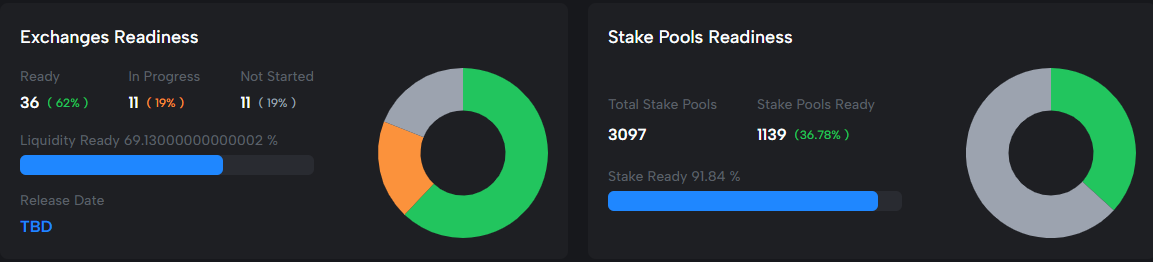
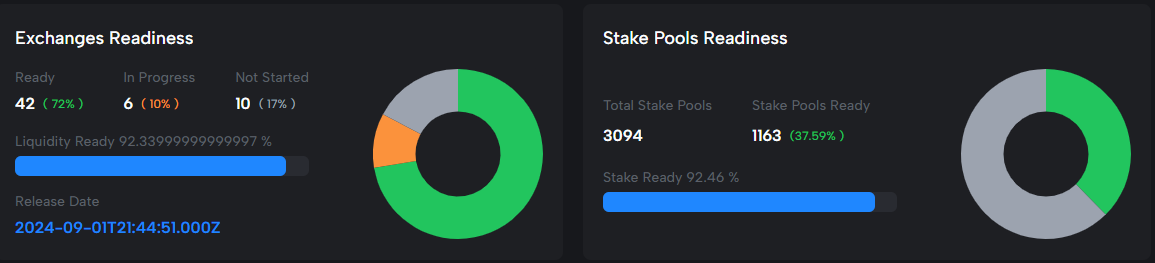
GITBOOK-557: Updated exchange readiness

diff --git a/cardano/cardano-hardforks-and-upgrades/chang-upgrade/chang-upgrade-1-readiness.md b/cardano/cardano-hardforks-and-upgrades/chang-upgrade/chang-upgrade-1-readiness.md
@@ -15,11 +15,11 @@ Email [hard-fork@intersectmbo.org](mailto:hard-fork@intersectmbo.org) if you spo
 ## 👉 Key Update
 
 * By **Stake**, we have now reached <mark style="color:green;">**92%**</mark> of **SPOs** on 9.1.0 - the desired hard fork threshold for SPOs has been reached :tada:
-* By **Liquidity,** we have now over **70**% of Exchanges on 9.1.0, with desired hard fork threshold at 85%
+* By **Liquidity,** we have now over <mark style="color:green;">**92%**</mark> of Exchanges on 9.1.0 - the desired hard fork threshold for exchanges has been reached :tada:
 * By TVL,  DApps are over **50%** ready, with steady progress and testing on PreProd from August 24
-* The next potential hard fork date is: **September 1, 2024** :tada::tada:
+* The hard fork date is set for **September 1, 2024** :tada::tada:
 * **The time to upgrade is now!** If there is a specific reason or dependency that means your upgrade cannot be achieved, the community and ecosystem need to know from you. Please reach out to us at @Intersectmbo or hard-fork@intersectmbo.org as soon as possible. The hard fork working group will review feedback daily
-* The Ledger team just today released Cardano App `1.7.3` which fixes the issues with the Ledger Nano S device. This means that now ALL hardware wallets devices are Chang ready! (see [announcement](https://x.com/ATADA\_Stakepool/status/1828788278373548248))
+* The Ledger team just released Cardano App `1.7.3` which fixes the issues with the Ledger Nano S device. This means that now ALL hardware wallets devices are Chang ready! (see [announcement](https://x.com/ATADA\_Stakepool/status/1828788278373548248))
 
 ***
 
@@ -60,7 +60,7 @@ High-level status: <mark style="color:green;">**Ready**</mark>
 Cardano has a range of network environments, and each will require a Hard Fork, below we compare the prevalence of Cardano blocks created by Node versions within the last 8 hours. 75%+ will indicate readiness for the Hard Fork to Conway ( Protocol 9.0)
 
 {% hint style="info" %}
-High-level status: <mark style="color:orange;">**In Progress**</mark>
+High-level status: <mark style="color:green;">**Ready**</mark>
 {% endhint %}
 
 <table><thead><tr><th width="138">Network</th><th width="170">9.1.0 Blocks (%)</th><th width="136">Ledger Era</th><th>Governance</th></tr></thead><tbody><tr><td>MainNet</td><td><mark style="color:green;">92<strong>%</strong></mark></td><td>Babbage</td><td>N/A</td></tr><tr><td>PreProd</td><td><mark style="color:green;"><strong>95%</strong></mark></td><td>Conway</td><td>Bootstrapping Phase</td></tr><tr><td>Preview</td><td><mark style="color:green;"><strong>84%</strong></mark></td><td>Conway</td><td>Bootstrapping Phase</td></tr><tr><td>SanchoNet</td><td><mark style="color:green;"><strong>100%</strong></mark></td><td>Conway</td><td>Full (post-bootstrapping)</td></tr></tbody></table>
@@ -69,7 +69,7 @@ For _live_ numbers please visit [Cexplorer/versions](https://cexplorer.io/versio
 
 | Total Stake Pools | Stake Pools Ready | Stake Ready % |
 | ----------------- | ----------------- | ------------- |
-| 3097              | 1139              | 91.84 %       |
+| 3097              | 1163              | 92.46 %       |
 
 For the latest numbers please visit: [cardanoscan](https://cardanoscan.io/changreadiness)
 
@@ -87,18 +87,20 @@ Exchange readiness is tracked against the top exchanges by ADA liquidity (as rep
 
 For the latest info on _Exchanges by Liquidity_ please visit: [Cardanoscan](https://cardanoscan.io/changreadiness) (source) and [Cexplorer](https://cexplorer.io/hfs).
 
-<figure><img src="../../../.gitbook/assets/Screenshot 2024-08-28 at 13.23.24.png" alt=""><figcaption></figcaption></figure>
+
+
+<figure><img src="../../../.gitbook/assets/CardanoScan.png" alt=""><figcaption><p>Cardanoscan as at August 29, 2024</p></figcaption></figure>
 
 {% hint style="info" %}
 High-level status: <mark style="color:orange;">**In Progress**</mark>
 {% endhint %}
 
-<table><thead><tr><th width="199">Exchange</th><th width="302">Status</th><th width="213">Liquidity %</th></tr></thead><tbody><tr><td>AscendEX (BitMax)</td><td><mark style="color:green;"><strong>Ready</strong></mark></td><td>2.00%</td></tr><tr><td>Azbit</td><td><mark style="color:green;"><strong>Ready</strong></mark></td><td>0.59%</td></tr><tr><td>BingX</td><td><mark style="color:green;"><strong>Ready</strong></mark></td><td>0.38%</td></tr><tr><td>Bitfinex</td><td><mark style="color:green;"><strong>Ready</strong></mark></td><td>0.65%</td></tr><tr><td>Bitkub</td><td><mark style="color:green;"><strong>Ready</strong></mark></td><td>0.08%</td></tr><tr><td>BitMart</td><td><mark style="color:green;"><strong>Ready</strong></mark></td><td>0.28%</td></tr><tr><td>Bitrue</td><td><mark style="color:green;"><strong>Ready</strong></mark></td><td>1.46%</td></tr><tr><td>BTSE</td><td><mark style="color:green;"><strong>Ready</strong></mark></td><td>0.65%</td></tr><tr><td>CEX.IO</td><td><mark style="color:green;"><strong>Ready</strong></mark></td><td>0.01%</td></tr><tr><td>Changelly PRO</td><td><mark style="color:green;"><strong>Ready</strong></mark></td><td>5.69%</td></tr><tr><td>Coinbase Exchange</td><td><mark style="color:green;"><strong>Ready</strong></mark></td><td>3.16%</td></tr><tr><td>CoinEx</td><td><mark style="color:green;"><strong>Ready</strong></mark></td><td>0.62%</td></tr><tr><td>Crypto.com Exchange</td><td><mark style="color:green;"><strong>Ready</strong></mark></td><td>2.30%</td></tr><tr><td>EXMO</td><td><mark style="color:green;"><strong>Ready</strong></mark></td><td>0.38%</td></tr><tr><td>FMFW.io</td><td><mark style="color:green;"><strong>Ready</strong></mark></td><td>5.69%</td></tr><tr><td>HitBTC</td><td><mark style="color:green;"><strong>Ready</strong></mark></td><td>5.86%</td></tr><tr><td>Indodax</td><td><mark style="color:green;"><strong>Ready</strong></mark></td><td>0.02%</td></tr><tr><td>Kraken</td><td><mark style="color:green;"><strong>Ready</strong></mark></td><td>1.47%</td></tr><tr><td>KuCoin</td><td><mark style="color:green;"><strong>Ready</strong></mark></td><td>1.36%</td></tr><tr><td>LATOKEN</td><td><mark style="color:green;"><strong>Ready</strong></mark></td><td>0.05%</td></tr><tr><td>LBank</td><td><mark style="color:green;"><strong>Ready</strong></mark></td><td>1.59%</td></tr><tr><td>LCX Exchange</td><td><mark style="color:green;"><strong>Ready</strong></mark></td><td>0.04%</td></tr><tr><td>Mercado Bitcoin</td><td><mark style="color:green;"><strong>Ready</strong></mark></td><td>0.01%</td></tr><tr><td>MEXC</td><td><mark style="color:green;"><strong>Ready</strong></mark></td><td>0.16%</td></tr><tr><td>OKCoin Japan</td><td><mark style="color:green;"><strong>Ready</strong></mark></td><td>0.04%</td></tr><tr><td>OKX</td><td><mark style="color:green;"><strong>Ready</strong></mark></td><td>1.99%</td></tr><tr><td>Upbit</td><td><mark style="color:green;"><strong>Ready</strong></mark></td><td>2.64%</td></tr><tr><td>WhiteBIT</td><td><mark style="color:green;"><strong>Ready</strong></mark></td><td>8.98%</td></tr><tr><td>WOO X</td><td><mark style="color:green;"><strong>Ready</strong></mark></td><td>0.01%</td></tr><tr><td>Binance</td><td><mark style="color:green;"><strong>Ready</strong></mark></td><td>15.72%</td></tr><tr><td>Bithumb</td><td><mark style="color:green;"><strong>Ready</strong></mark></td><td>0.46%</td></tr><tr><td>Bitvavo</td><td><mark style="color:green;"><strong>Ready</strong></mark></td><td>1.53%</td></tr><tr><td>Bybit</td><td><mark style="color:green;"><strong>Ready</strong></mark></td><td>8.36%</td></tr><tr><td>Gate.io</td><td><mark style="color:green;"><strong>Ready</strong></mark></td><td>2.13%</td></tr><tr><td>TokoCrypto</td><td><mark style="color:green;"><strong>Ready</strong></mark></td><td>0.02%</td></tr><tr><td>Bitget</td><td><mark style="color:green;"><strong>Ready</strong></mark></td><td>5.07%</td></tr><tr><td>HTX</td><td><mark style="color:green;"><strong>Ready</strong></mark></td><td>6.83%</td></tr><tr><td>Poloniex</td><td><mark style="color:green;"><strong>Ready</strong></mark></td><td>9.45%</td></tr><tr><td>Binance US</td><td><mark style="color:orange;"><strong>In Progress</strong></mark></td><td>0.05%</td></tr><tr><td>Bitbank</td><td><mark style="color:orange;"><strong>In Progress</strong></mark></td><td>0.06%</td></tr><tr><td>Bitstamp</td><td><mark style="color:orange;"><strong>In Progress</strong></mark></td><td>0.13%</td></tr><tr><td>Coinstore</td><td><mark style="color:orange;"><strong>In Progress</strong></mark></td><td>1.54%</td></tr><tr><td>DigiFinex</td><td><mark style="color:orange;"><strong>In Progress</strong></mark></td><td>1.81%</td></tr><tr><td>Paribu</td><td><mark style="color:orange;"><strong>In Progress</strong></mark></td><td>0.06%</td></tr><tr><td>XT.COM</td><td><mark style="color:orange;"><strong>In Progress</strong></mark></td><td>1.35%</td></tr></tbody></table>
+<table><thead><tr><th width="199">Exchange</th><th width="302">Status</th><th width="213">Liquidity %</th></tr></thead><tbody><tr><td>AscendEX (BitMax)</td><td><mark style="color:green;"><strong>Ready</strong></mark></td><td>1.44%</td></tr><tr><td>Azbit</td><td><mark style="color:green;"><strong>Ready</strong></mark></td><td>0.51%</td></tr><tr><td>Binance</td><td><mark style="color:green;"><strong>Ready</strong></mark></td><td>15.72%</td></tr><tr><td>Binance US</td><td><mark style="color:green;"><strong>Ready</strong></mark></td><td>0.06%</td></tr><tr><td>BingX</td><td><mark style="color:green;"><strong>Ready</strong></mark></td><td>0.32%</td></tr><tr><td>BitBNS</td><td><mark style="color:green;"><strong>Ready</strong></mark></td><td>0.01%</td></tr><tr><td>Bitfinex</td><td><mark style="color:green;"><strong>Ready</strong></mark></td><td>0.81%</td></tr><tr><td>Bithumb</td><td><mark style="color:green;"><strong>Ready</strong></mark></td><td>0.4%</td></tr><tr><td>Bitkub</td><td><mark style="color:green;"><strong>Ready</strong></mark></td><td>0.1%</td></tr><tr><td>BitMart</td><td><mark style="color:green;"><strong>Ready</strong></mark></td><td>0.28%</td></tr><tr><td>Bitrue</td><td><mark style="color:green;"><strong>Ready</strong></mark></td><td>2.26%</td></tr><tr><td>Bitvavo</td><td><mark style="color:green;"><strong>Ready</strong></mark></td><td>1.55%</td></tr><tr><td>Blockchain.com</td><td><mark style="color:green;"><strong>Ready</strong></mark></td><td>0%</td></tr><tr><td>BTSE</td><td><mark style="color:green;"><strong>Ready</strong></mark></td><td>0.63%</td></tr><tr><td>Bybit</td><td><mark style="color:green;"><strong>Ready</strong></mark></td><td>6.61%</td></tr><tr><td>CEX.IO</td><td><mark style="color:green;"><strong>Ready</strong></mark></td><td>0.01%</td></tr><tr><td>Changelly PRO</td><td><mark style="color:green;"><strong>Ready</strong></mark></td><td>4.52%</td></tr><tr><td>Coinbase Exchange</td><td><mark style="color:green;"><strong>Ready</strong></mark></td><td>3.06%</td></tr><tr><td>CoinEx</td><td><mark style="color:green;"><strong>Ready</strong></mark></td><td>0.51%</td></tr><tr><td>Crypto.com Exchange</td><td><mark style="color:green;"><strong>Ready</strong></mark></td><td>1.86%</td></tr><tr><td>EXMO</td><td><mark style="color:green;"><strong>Ready</strong></mark></td><td>0.2%</td></tr><tr><td>FMFW.io</td><td><mark style="color:green;"><strong>Ready</strong></mark></td><td>4.52%</td></tr><tr><td>Gate.io</td><td><mark style="color:green;"><strong>Ready</strong></mark></td><td>2.16%</td></tr><tr><td>HitBTC</td><td><mark style="color:green;"><strong>Ready</strong></mark></td><td>4.49%</td></tr><tr><td>HTX</td><td><mark style="color:green;"><strong>Ready</strong></mark></td><td>.83%6</td></tr><tr><td>Indodax</td><td><mark style="color:green;"><strong>Ready</strong></mark></td><td>0.02%</td></tr><tr><td>Kraken</td><td><mark style="color:green;"><strong>Ready</strong></mark></td><td>1.35%</td></tr><tr><td>KuCoin</td><td><mark style="color:green;"><strong>Ready</strong></mark></td><td>1.24%</td></tr><tr><td>LATOKEN</td><td><mark style="color:green;"><strong>Ready</strong></mark></td><td>0.05%</td></tr><tr><td>LBank</td><td><mark style="color:green;"><strong>Ready</strong></mark></td><td>1.55%</td></tr><tr><td>LCX Exchange</td><td><mark style="color:green;"><strong>Ready</strong></mark></td><td>0.07%</td></tr><tr><td>Mercado Bitcoin</td><td><mark style="color:green;"><strong>Ready</strong></mark></td><td>0.02%</td></tr><tr><td>MEXC</td><td><mark style="color:green;"><strong>Ready</strong></mark></td><td>0.16%</td></tr><tr><td>OKCoin Japan</td><td><mark style="color:green;"><strong>Ready</strong></mark></td><td>0.01%</td></tr><tr><td>OKX</td><td><mark style="color:green;"><strong>Ready</strong></mark></td><td>1.61%</td></tr><tr><td>P2B</td><td><mark style="color:green;"><strong>Ready</strong></mark></td><td>2.91%</td></tr><tr><td>Poloniex</td><td><mark style="color:green;"><strong>Ready</strong></mark></td><td>8.1%</td></tr><tr><td>TokoCrypto</td><td><mark style="color:green;"><strong>Ready</strong></mark></td><td>0.01%</td></tr><tr><td>Upbit</td><td><mark style="color:green;"><strong>Ready</strong></mark></td><td>2.33%</td></tr><tr><td>WhiteBIT</td><td><mark style="color:green;"><strong>Ready</strong></mark></td><td>9.8%</td></tr><tr><td>WOO X</td><td><mark style="color:green;"><strong>Ready</strong></mark></td><td>0.01%</td></tr><tr><td>Bitbank</td><td><mark style="color:orange;"><strong>In Progress</strong></mark></td><td>0.06%</td></tr><tr><td>Bitstamp</td><td><mark style="color:orange;"><strong>In Progress</strong></mark></td><td>0.08%</td></tr><tr><td>Coinstore</td><td><mark style="color:orange;"><strong>In Progress</strong></mark></td><td>1.26%</td></tr><tr><td>DigiFinex</td><td><mark style="color:orange;"><strong>In Progress</strong></mark></td><td>1.6%</td></tr><tr><td>Paribu</td><td><mark style="color:orange;"><strong>In Progress</strong></mark></td><td>0.04%</td></tr><tr><td>XT.COM</td><td><mark style="color:orange;"><strong>In Progress</strong></mark></td><td>1.26%</td></tr></tbody></table>
 
 {% hint style="info" %}
 Section maintained by Cardano Foundation
 
-Last Updated; 2024-08-28
+Last Updated; 2024-08-29
 {% endhint %}
 
 ***
